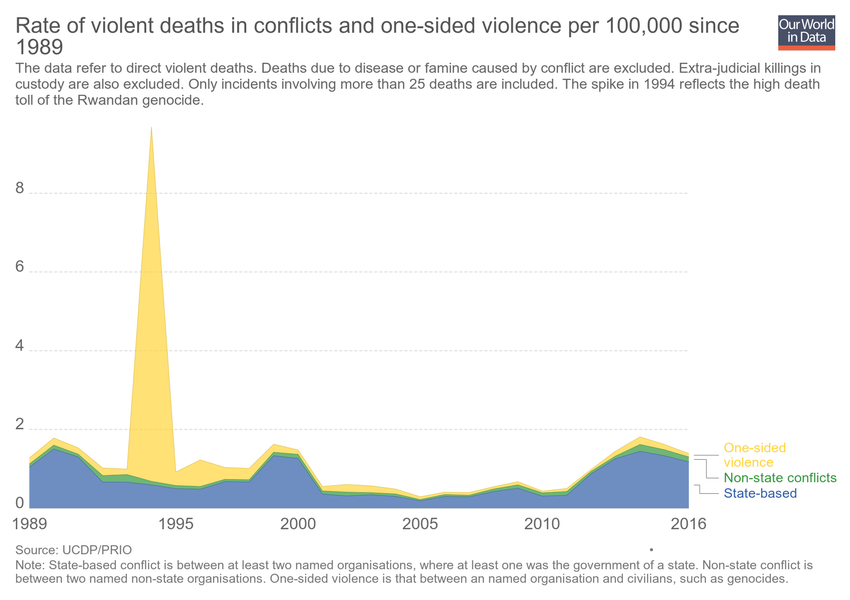
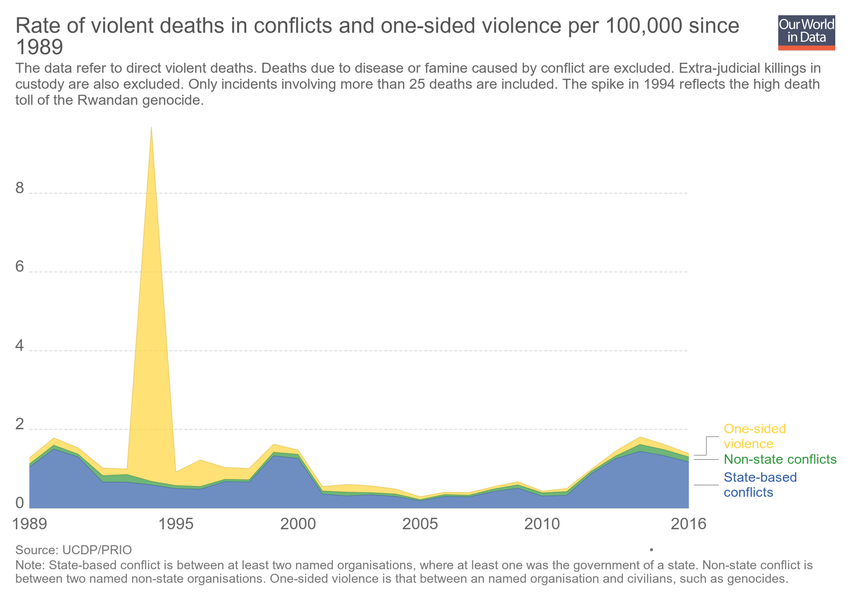
Updating chart rate-of-violent-deaths-in-conflicts-and-one-sided-violence-per-100000-since-1989

Changed region(s): [[0.8259, 0.69, 0.9788, 0.84]]

diff --git a/grapher/number-of-conflicts-and-incidences-of-one-sided-violence-since-1989.html b/grapher/number-of-conflicts-and-incidences-of-one-sided-violence-since-1989.html
@@ -1,4 +1,4 @@
-<!doctype html><html><head><meta name="viewport" content="width=device-width, initial-scale=1" /><title>Non-state and state-based violent conflicts since 1989 - Our World in Data</title><meta name="description" content="State-based conflict is between at least two named organisations, where at least one was the government of a state. Non-state conflict is between two named non-state organisations. One-sided violence is that between an named organisation and civilians, such as genocides. Ongoing conflicts are represented for every year in which they resulted in at least 25 direct violent deaths. Extra-judicial killings in custody are excluded." /><link rel="canonical" href="https://ourworldindata.org/grapher/number-of-conflicts-and-incidences-of-one-sided-violence-since-1989" /><meta property="fb:app_id" content="1149943818390250" /><meta property="og:url" content="https://ourworldindata.org/grapher/number-of-conflicts-and-incidences-of-one-sided-violence-since-1989" /><meta property="og:title" content="Non-state and state-based violent conflicts since 1989" /><meta property="og:description" content="State-based conflict is between at least two named organisations, where at least one was the government of a state. Non-state conflict is between two named non-state organisations. One-sided violence is that between an named organisation and civilians, such as genocides. Ongoing conflicts are represented for every year in which they resulted in at least 25 direct violent deaths. Extra-judicial killings in custody are excluded." /><meta property="og:image" content="https://ourworldindata.org/grapher/exports/number-of-conflicts-and-incidences-of-one-sided-violence-since-1989.png?v=11" /><meta property="og:image:width" content="850" /><meta property="og:image:height" content="600" /><meta property="og:site_name" content="Our World in Data" /><meta name="twitter:card" content="summary_large_image" /><meta name="twitter:site" content="@OurWorldInData" /><meta name="twitter:creator" content="@OurWorldInData" /><meta name="twitter:title" content="Non-state and state-based violent conflicts since 1989" /><meta name="twitter:description" content="State-based conflict is between at least two named organisations, where at least one was the government of a state. Non-state conflict is between two named non-state organisations. One-sided violence is that between an named organisation and civilians, such as genocides. Ongoing conflicts are represented for every year in which they resulted in at least 25 direct violent deaths. Extra-judicial killings in custody are excluded." /><meta name="twitter:image" content="https://ourworldindata.org/grapher/exports/number-of-conflicts-and-incidences-of-one-sided-violence-since-1989.png?v=11" /><style>
+<!doctype html><html><head><meta name="viewport" content="width=device-width, initial-scale=1" /><title>Non-state and state-based violent conflicts since 1989 - Our World in Data</title><meta name="description" content="State-based conflict is between at least two named organisations, where at least one was the government of a state. Non-state conflict is between two named non-state organisations. One-sided violence is that between an named organisation and civilians, such as genocides. Ongoing conflicts are represented for every year in which they resulted in at least 25 direct violent deaths. Extra-judicial killings in custody are excluded." /><link rel="canonical" href="https://ourworldindata.org/grapher/number-of-conflicts-and-incidences-of-one-sided-violence-since-1989" /><meta property="fb:app_id" content="1149943818390250" /><meta property="og:url" content="https://ourworldindata.org/grapher/number-of-conflicts-and-incidences-of-one-sided-violence-since-1989" /><meta property="og:title" content="Non-state and state-based violent conflicts since 1989" /><meta property="og:description" content="State-based conflict is between at least two named organisations, where at least one was the government of a state. Non-state conflict is between two named non-state organisations. One-sided violence is that between an named organisation and civilians, such as genocides. Ongoing conflicts are represented for every year in which they resulted in at least 25 direct violent deaths. Extra-judicial killings in custody are excluded." /><meta property="og:image" content="https://ourworldindata.org/grapher/exports/number-of-conflicts-and-incidences-of-one-sided-violence-since-1989.png?v=12" /><meta property="og:image:width" content="850" /><meta property="og:image:height" content="600" /><meta property="og:site_name" content="Our World in Data" /><meta name="twitter:card" content="summary_large_image" /><meta name="twitter:site" content="@OurWorldInData" /><meta name="twitter:creator" content="@OurWorldInData" /><meta name="twitter:title" content="Non-state and state-based violent conflicts since 1989" /><meta name="twitter:description" content="State-based conflict is between at least two named organisations, where at least one was the government of a state. Non-state conflict is between two named non-state organisations. One-sided violence is that between an named organisation and civilians, such as genocides. Ongoing conflicts are represented for every year in which they resulted in at least 25 direct violent deaths. Extra-judicial killings in custody are excluded." /><meta name="twitter:image" content="https://ourworldindata.org/grapher/exports/number-of-conflicts-and-incidences-of-one-sided-violence-since-1989.png?v=12" /><style>
         html, body {
             height: 100%;
             margin: 0;
@@ -20,8 +20,8 @@
         }
     </style><noscript><style>
                     figure { display: none !important; }
-                </style></noscript><link rel="stylesheet" href="https://ourworldindata.org/grapher/assets/commons.bundle.62f8703dfc964fd3975c.css" /><link rel="preload" href="/grapher/data/variables/97370.json?v=11" as="fetch" crossorigin /></head><body class="singleChart"><figure data-grapher-src="/grapher/number-of-conflicts-and-incidences-of-one-sided-violence-since-1989"></figure><noscript id="fallback"><img src="/grapher/exports/number-of-conflicts-and-incidences-of-one-sided-violence-since-1989.svg" /><p>Interactive visualization requires JavaScript</p></noscript><script src="https://cdn.polyfill.io/v2/polyfill.min.js?features=es6,fetch"></script><script src="https://ourworldindata.org/grapher/assets/commons.bundle.62f8703dfc964fd3975c.js"></script><script src="https://ourworldindata.org/grapher/assets/charts.bundle.dcf65b68eddaba4c6a58.js"></script><script>
-        var jsonConfig = {"id":2573,"map":{"projection":"World","colorSchemeLabels":[],"colorSchemeValues":[],"colorSchemeMinValue":0,"customNumericColors":[],"customCategoryColors":{},"customCategoryLabels":{},"customHiddenCategories":{}},"tab":"chart","slug":"number-of-conflicts-and-incidences-of-one-sided-violence-since-1989","type":"StackedArea","title":"Non-state and state-based violent conflicts since 1989","xAxis":{"scaleType":"linear"},"yAxis":{"min":0,"scaleType":"linear"},"version":11,"subtitle":"State-based conflict is between at least two named organisations, where at least one was the government of a state. Non-state conflict is between two named non-state organisations. One-sided violence is that between an named organisation and civilians, such as genocides. Ongoing conflicts are represented for every year in which they resulted in at least 25 direct violent deaths. Extra-judicial killings in custody are excluded.","hasMapTab":false,"stackMode":"absolute","dimensions":[{"display":{},"property":"y","variableId":97370}],"sourceDesc":"UCDP","hasChartTab":true,"isPublished":true,"selectedData":[{"index":0,"entityId":37488},{"index":0,"entityId":37496},{"index":0,"entityId":37490}],"addCountryMode":"disabled"};
+                </style></noscript><link rel="stylesheet" href="https://ourworldindata.org/grapher/assets/commons.bundle.62f8703dfc964fd3975c.css" /><link rel="preload" href="/grapher/data/variables/97370.json?v=12" as="fetch" crossorigin /></head><body class="singleChart"><figure data-grapher-src="/grapher/number-of-conflicts-and-incidences-of-one-sided-violence-since-1989"></figure><noscript id="fallback"><img src="/grapher/exports/number-of-conflicts-and-incidences-of-one-sided-violence-since-1989.svg" /><p>Interactive visualization requires JavaScript</p></noscript><script src="https://cdn.polyfill.io/v2/polyfill.min.js?features=es6,fetch"></script><script src="https://ourworldindata.org/grapher/assets/commons.bundle.62f8703dfc964fd3975c.js"></script><script src="https://ourworldindata.org/grapher/assets/charts.bundle.dcf65b68eddaba4c6a58.js"></script><script>
+        var jsonConfig = {"id":2573,"map":{"projection":"World","colorSchemeLabels":[],"colorSchemeValues":[],"colorSchemeMinValue":0,"customNumericColors":[],"customCategoryColors":{},"customCategoryLabels":{},"customHiddenCategories":{}},"tab":"chart","slug":"number-of-conflicts-and-incidences-of-one-sided-violence-since-1989","type":"StackedArea","title":"Non-state and state-based violent conflicts since 1989","xAxis":{"scaleType":"linear"},"yAxis":{"min":0,"scaleType":"linear"},"version":12,"subtitle":"State-based conflict is between at least two named organisations, where at least one was the government of a state. Non-state conflict is between two named non-state organisations. One-sided violence is that between an named organisation and civilians, such as genocides. Ongoing conflicts are represented for every year in which they resulted in at least 25 direct violent deaths. Extra-judicial killings in custody are excluded.","hasMapTab":false,"stackMode":"absolute","dimensions":[{"display":{},"property":"y","variableId":97370}],"sourceDesc":"UCDP","hasChartTab":true,"isPublished":true,"selectedData":[{"index":0,"entityId":37488},{"index":0,"entityId":37496},{"index":0,"entityId":37498}],"addCountryMode":"disabled"};
         var figure = document.getElementsByTagName("figure")[0];
         try {
             window.App = {};

diff --git a/grapher/rate-of-violent-deaths-in-conflicts-and-one-sided-violence-per-100000-since-1989.html b/grapher/rate-of-violent-deaths-in-conflicts-and-one-sided-violence-per-100000-since-1989.html
@@ -1,4 +1,4 @@
-<!doctype html><html><head><meta name="viewport" content="width=device-width, initial-scale=1" /><title>Rate of violent deaths in conflicts and one-sided violence per 100,000 since 1989 - Our World in Data</title><meta name="description" content="The data refer to direct violent deaths. Deaths due to disease or famine caused by conflict are excluded. Extra-judicial killings in custody are also excluded. Only incidents involving more than 25 deaths are included. The spike in 1994 reflects the high death toll of the Rwandan genocide." /><link rel="canonical" href="https://ourworldindata.org/grapher/rate-of-violent-deaths-in-conflicts-and-one-sided-violence-per-100000-since-1989" /><meta property="fb:app_id" content="1149943818390250" /><meta property="og:url" content="https://ourworldindata.org/grapher/rate-of-violent-deaths-in-conflicts-and-one-sided-violence-per-100000-since-1989" /><meta property="og:title" content="Rate of violent deaths in conflicts and one-sided violence per 100,000 since 1989" /><meta property="og:description" content="The data refer to direct violent deaths. Deaths due to disease or famine caused by conflict are excluded. Extra-judicial killings in custody are also excluded. Only incidents involving more than 25 deaths are included. The spike in 1994 reflects the high death toll of the Rwandan genocide." /><meta property="og:image" content="https://ourworldindata.org/grapher/exports/rate-of-violent-deaths-in-conflicts-and-one-sided-violence-per-100000-since-1989.png?v=2" /><meta property="og:image:width" content="850" /><meta property="og:image:height" content="600" /><meta property="og:site_name" content="Our World in Data" /><meta name="twitter:card" content="summary_large_image" /><meta name="twitter:site" content="@OurWorldInData" /><meta name="twitter:creator" content="@OurWorldInData" /><meta name="twitter:title" content="Rate of violent deaths in conflicts and one-sided violence per 100,000 since 1989" /><meta name="twitter:description" content="The data refer to direct violent deaths. Deaths due to disease or famine caused by conflict are excluded. Extra-judicial killings in custody are also excluded. Only incidents involving more than 25 deaths are included. The spike in 1994 reflects the high death toll of the Rwandan genocide." /><meta name="twitter:image" content="https://ourworldindata.org/grapher/exports/rate-of-violent-deaths-in-conflicts-and-one-sided-violence-per-100000-since-1989.png?v=2" /><style>
+<!doctype html><html><head><meta name="viewport" content="width=device-width, initial-scale=1" /><title>Rate of violent deaths in conflicts and one-sided violence per 100,000 since 1989 - Our World in Data</title><meta name="description" content="The data refer to direct violent deaths. Deaths due to disease or famine caused by conflict are excluded. Extra-judicial killings in custody are also excluded. Only incidents involving more than 25 deaths are included. The spike in 1994 reflects the high death toll of the Rwandan genocide." /><link rel="canonical" href="https://ourworldindata.org/grapher/rate-of-violent-deaths-in-conflicts-and-one-sided-violence-per-100000-since-1989" /><meta property="fb:app_id" content="1149943818390250" /><meta property="og:url" content="https://ourworldindata.org/grapher/rate-of-violent-deaths-in-conflicts-and-one-sided-violence-per-100000-since-1989" /><meta property="og:title" content="Rate of violent deaths in conflicts and one-sided violence per 100,000 since 1989" /><meta property="og:description" content="The data refer to direct violent deaths. Deaths due to disease or famine caused by conflict are excluded. Extra-judicial killings in custody are also excluded. Only incidents involving more than 25 deaths are included. The spike in 1994 reflects the high death toll of the Rwandan genocide." /><meta property="og:image" content="https://ourworldindata.org/grapher/exports/rate-of-violent-deaths-in-conflicts-and-one-sided-violence-per-100000-since-1989.png?v=3" /><meta property="og:image:width" content="850" /><meta property="og:image:height" content="600" /><meta property="og:site_name" content="Our World in Data" /><meta name="twitter:card" content="summary_large_image" /><meta name="twitter:site" content="@OurWorldInData" /><meta name="twitter:creator" content="@OurWorldInData" /><meta name="twitter:title" content="Rate of violent deaths in conflicts and one-sided violence per 100,000 since 1989" /><meta name="twitter:description" content="The data refer to direct violent deaths. Deaths due to disease or famine caused by conflict are excluded. Extra-judicial killings in custody are also excluded. Only incidents involving more than 25 deaths are included. The spike in 1994 reflects the high death toll of the Rwandan genocide." /><meta name="twitter:image" content="https://ourworldindata.org/grapher/exports/rate-of-violent-deaths-in-conflicts-and-one-sided-violence-per-100000-since-1989.png?v=3" /><style>
         html, body {
             height: 100%;
             margin: 0;
@@ -20,8 +20,8 @@
         }
     </style><noscript><style>
                     figure { display: none !important; }
-                </style></noscript><link rel="stylesheet" href="https://ourworldindata.org/grapher/assets/commons.bundle.62f8703dfc964fd3975c.css" /><link rel="preload" href="/grapher/data/variables/97372.json?v=2" as="fetch" crossorigin /></head><body class="singleChart"><figure data-grapher-src="/grapher/rate-of-violent-deaths-in-conflicts-and-one-sided-violence-per-100000-since-1989"></figure><noscript id="fallback"><img src="/grapher/exports/rate-of-violent-deaths-in-conflicts-and-one-sided-violence-per-100000-since-1989.svg" /><p>Interactive visualization requires JavaScript</p></noscript><script src="https://cdn.polyfill.io/v2/polyfill.min.js?features=es6,fetch"></script><script src="https://ourworldindata.org/grapher/assets/commons.bundle.62f8703dfc964fd3975c.js"></script><script src="https://ourworldindata.org/grapher/assets/charts.bundle.dcf65b68eddaba4c6a58.js"></script><script>
-        var jsonConfig = {"id":2579,"map":{"projection":"World","colorSchemeLabels":[],"colorSchemeValues":[],"colorSchemeMinValue":0,"customNumericColors":[],"customCategoryColors":{},"customCategoryLabels":{},"customHiddenCategories":{}},"tab":"chart","note":"State-based conflict is between at least two named organisations, where at least one was the government of a state. Non-state conflict is between two named non-state organisations. One-sided violence is that between an named organisation and civilians, such as genocides. ","slug":"rate-of-violent-deaths-in-conflicts-and-one-sided-violence-per-100000-since-1989","type":"StackedArea","title":"Rate of violent deaths in conflicts and one-sided violence per 100,000 since 1989","xAxis":{"scaleType":"linear"},"yAxis":{"min":0,"scaleType":"linear"},"version":2,"subtitle":"The data refer to direct violent deaths. Deaths due to disease or famine caused by conflict are excluded. Extra-judicial killings in custody are also excluded. Only incidents involving more than 25 deaths are included. The spike in 1994 reflects the high death toll of the Rwandan genocide.","hasMapTab":false,"stackMode":"absolute","dimensions":[{"display":{},"property":"y","variableId":97372}],"hasChartTab":true,"isPublished":true,"selectedData":[{"index":0,"entityId":37488},{"index":0,"entityId":37496},{"index":0,"entityId":37497}],"addCountryMode":"disabled"};
+                </style></noscript><link rel="stylesheet" href="https://ourworldindata.org/grapher/assets/commons.bundle.62f8703dfc964fd3975c.css" /><link rel="preload" href="/grapher/data/variables/97372.json?v=3" as="fetch" crossorigin /></head><body class="singleChart"><figure data-grapher-src="/grapher/rate-of-violent-deaths-in-conflicts-and-one-sided-violence-per-100000-since-1989"></figure><noscript id="fallback"><img src="/grapher/exports/rate-of-violent-deaths-in-conflicts-and-one-sided-violence-per-100000-since-1989.svg" /><p>Interactive visualization requires JavaScript</p></noscript><script src="https://cdn.polyfill.io/v2/polyfill.min.js?features=es6,fetch"></script><script src="https://ourworldindata.org/grapher/assets/commons.bundle.62f8703dfc964fd3975c.js"></script><script src="https://ourworldindata.org/grapher/assets/charts.bundle.dcf65b68eddaba4c6a58.js"></script><script>
+        var jsonConfig = {"id":2579,"map":{"projection":"World","colorSchemeLabels":[],"colorSchemeValues":[],"colorSchemeMinValue":0,"customNumericColors":[],"customCategoryColors":{},"customCategoryLabels":{},"customHiddenCategories":{}},"tab":"chart","note":"State-based conflict is between at least two named organisations, where at least one was the government of a state. Non-state conflict is between two named non-state organisations. One-sided violence is that between an named organisation and civilians, such as genocides. ","slug":"rate-of-violent-deaths-in-conflicts-and-one-sided-violence-per-100000-since-1989","type":"StackedArea","title":"Rate of violent deaths in conflicts and one-sided violence per 100,000 since 1989","xAxis":{"scaleType":"linear"},"yAxis":{"min":0,"scaleType":"linear"},"version":3,"subtitle":"The data refer to direct violent deaths. Deaths due to disease or famine caused by conflict are excluded. Extra-judicial killings in custody are also excluded. Only incidents involving more than 25 deaths are included. The spike in 1994 reflects the high death toll of the Rwandan genocide.","hasMapTab":false,"stackMode":"absolute","dimensions":[{"display":{},"property":"y","variableId":97372}],"hasChartTab":true,"isPublished":true,"selectedData":[{"index":0,"entityId":37488},{"index":0,"entityId":37496},{"index":0,"entityId":37498}],"addCountryMode":"disabled"};
         var figure = document.getElementsByTagName("figure")[0];
         try {
             window.App = {};
